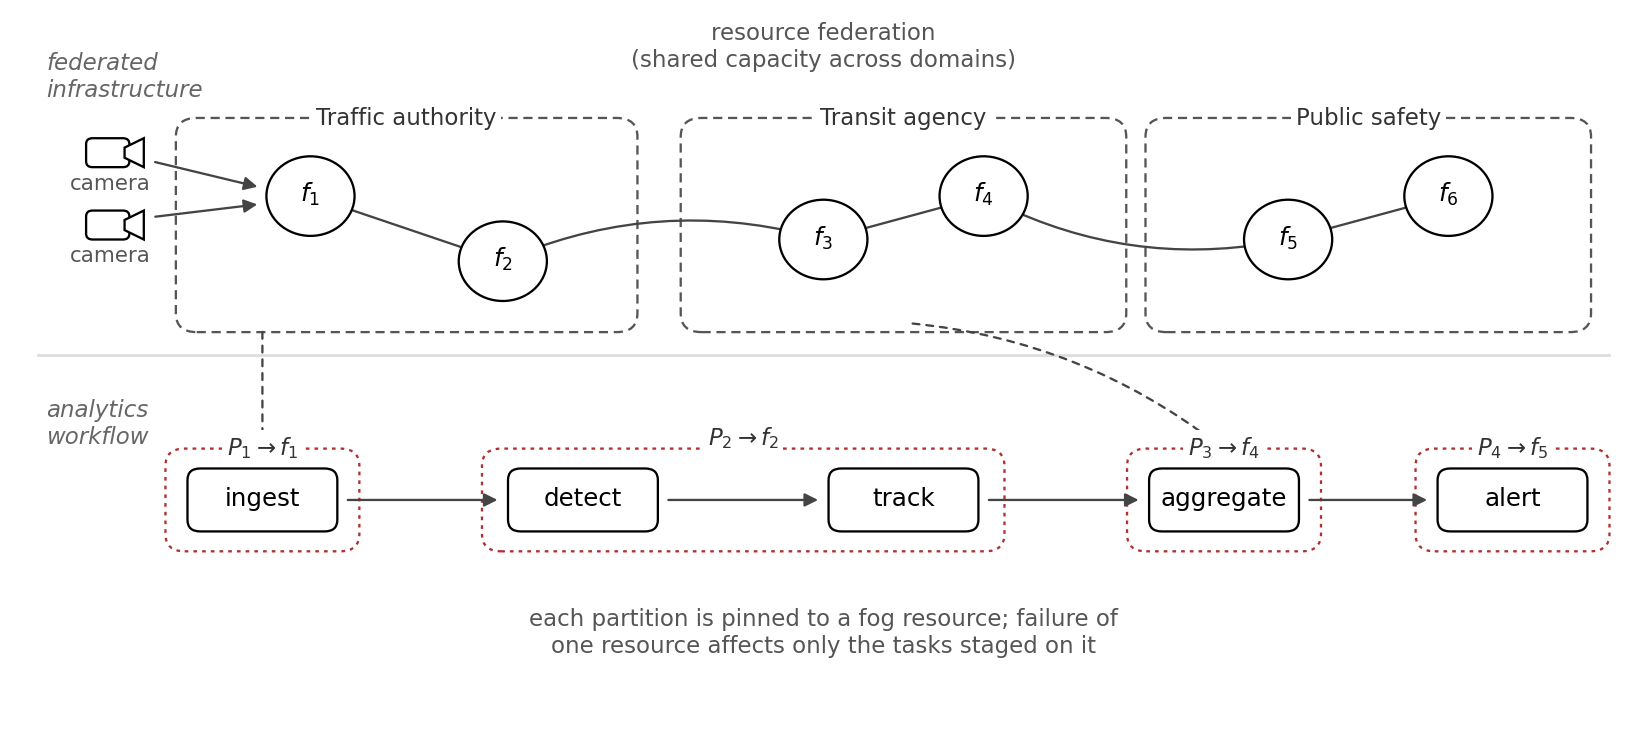
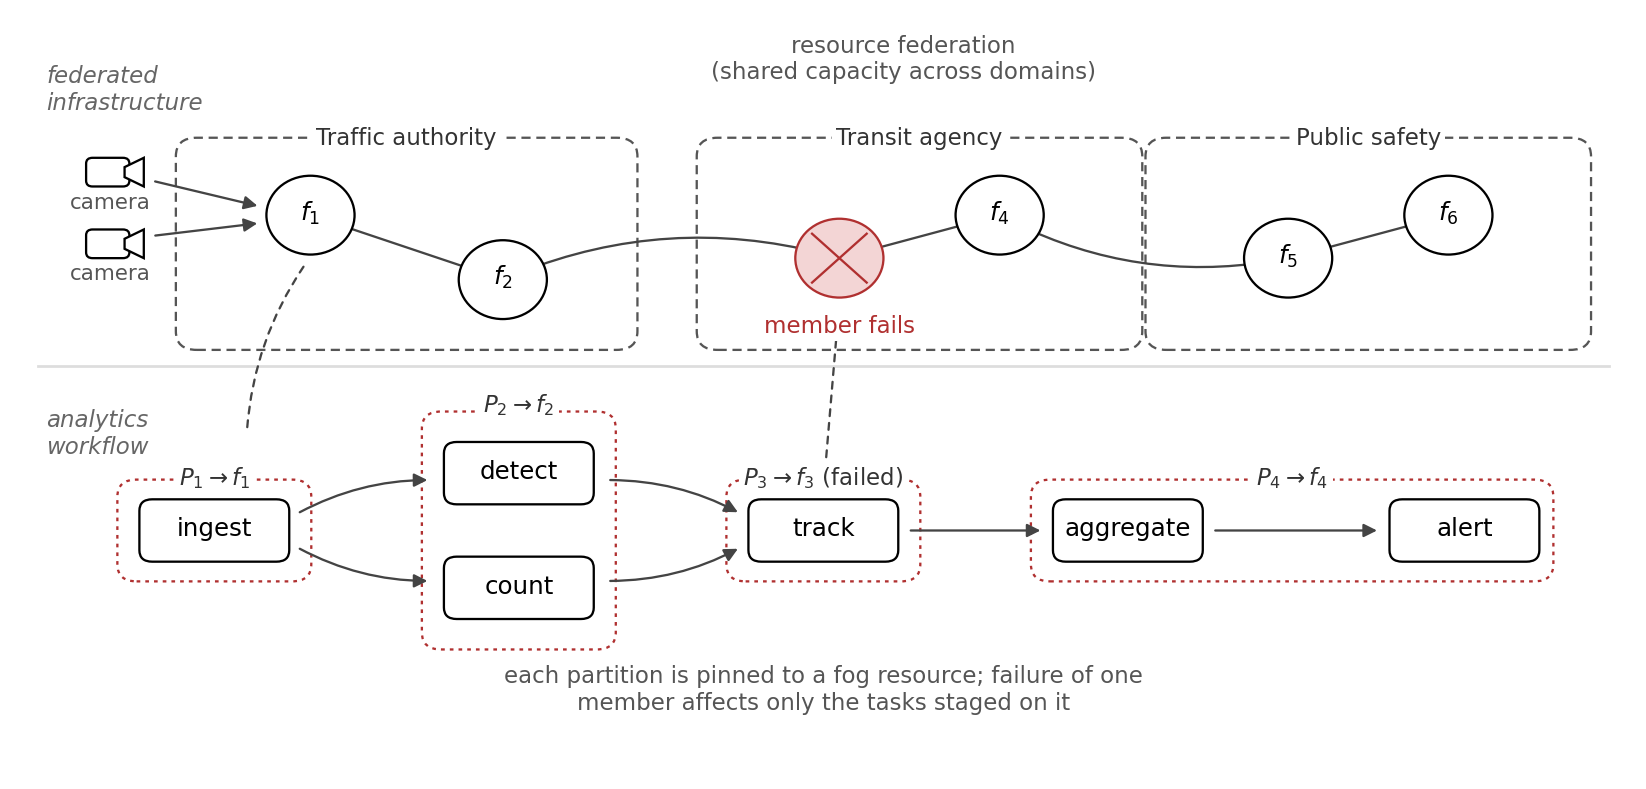
Rework Fig. 1 into a real motivating scenario
Branching analytics DAG (ingest -> {detect, count} -> track ->
aggregate -> alert) instead of a linear chain, a failed federation
member (f_3) marking the affected partition, and updated caption.

diff --git a/python/make_story_fig.py b/python/make_story_fig.py
@@ -11,16 +11,23 @@ LW = 0.75
 
 RED = "#b03030"
 BLUE = "#1f5fa8"
-GREEN = "#4d8a4d"
 GREY = "#444444"
 DOM = "#555555"
 
 
-def rnode(ax, x, y, label, r=5.5):
-    ax.add_patch(Circle((x, y), r, facecolor="white", edgecolor="black",
+def rnode(ax, x, y, label, r=5.5, dead=False):
+    ec = RED if dead else "black"
+    fc = "#f3d5d5" if dead else "white"
+    ax.add_patch(Circle((x, y), r, facecolor=fc, edgecolor=ec,
                         linewidth=LW, zorder=3))
-    ax.text(x, y + 0.3, label, ha="center", va="center",
-            fontsize=FS - 0.5, zorder=4)
+    if dead:
+        d = r * 0.62
+        for s in (1, -1):
+            ax.plot([x - d, x + d], [y - s * d, y + s * d], color=RED,
+                    lw=LW, zorder=4)
+    else:
+        ax.text(x, y + 0.3, label, ha="center", va="center",
+                fontsize=FS - 0.5, zorder=4)
 
 
 def domain(ax, x, y, w, h, label):
@@ -62,7 +69,6 @@ def partition(ax, x, y, w, h, label, edge=RED, lx=None, ly=None):
 
 
 def camera(ax, x, y):
-    """Minimal camera icon: body + lens."""
     ax.add_patch(FancyBboxPatch((x - 2.6, y - 1.6), 4.6, 3.2,
                  boxstyle="round,pad=0.4,rounding_size=0.8",
                  facecolor="white", edgecolor="black", linewidth=LW,
@@ -75,67 +81,74 @@ def camera(ax, x, y):
             fontsize=FS - 1.5, color="#555555", zorder=4)
 
 
-fig, ax = plt.subplots(figsize=(9.4, 4.1))
+fig, ax = plt.subplots(figsize=(9.4, 4.4))
 ax.set_xlim(0, 200)
-ax.set_ylim(0, 96)
+ax.set_ylim(0, 104)
 ax.axis("off")
 
-ax.plot([2, 198], [50, 50], color="#dddddd", lw=0.9)
-ax.text(3, 92, "federated\ninfrastructure", ha="left", va="top",
+ax.plot([2, 198], [56, 56], color="#dddddd", lw=0.9)
+ax.text(3, 98, "federated\ninfrastructure", ha="left", va="top",
         fontsize=FS - 1, color="#666666", style="italic")
-ax.text(3, 44, "analytics\nworkflow", ha="left", va="top",
+ax.text(3, 50, "analytics\nworkflow", ha="left", va="top",
         fontsize=FS - 1, color="#666666", style="italic")
 
 # ---------------- three federated domains ----------------
-# Traffic authority: two fog nodes
-domain(ax, 48, 68, 54, 26, "Traffic authority")
-rnode(ax, 36, 72, "$f_1$")
-rnode(ax, 60, 63, "$f_2$")
-elink(ax, (36, 72), (60, 63))
-camera(ax, 11, 78)
-camera(ax, 11, 68)
-elink(ax, (15.5, 77), (30.5, 73), arrow=True, sh=3)
-elink(ax, (15.5, 69), (30.5, 71), arrow=True, sh=3)
+domain(ax, 48, 73, 54, 26, "Traffic authority")
+rnode(ax, 36, 77, "$f_1$")
+rnode(ax, 60, 68, "$f_2$")
+elink(ax, (36, 77), (60, 68))
+camera(ax, 11, 83)
+camera(ax, 11, 73)
+elink(ax, (15.5, 82), (30.5, 78), arrow=True, sh=3)
+elink(ax, (15.5, 74), (30.5, 76), arrow=True, sh=3)
 
-# Transit agency
-domain(ax, 110, 68, 52, 26, "Transit agency")
-rnode(ax, 100, 66, "$f_3$")
-rnode(ax, 120, 72, "$f_4$")
-elink(ax, (100, 66), (120, 72))
+domain(ax, 112, 73, 52, 26, "Transit agency")
+rnode(ax, 102, 71, "$f_3$", dead=True)
+rnode(ax, 122, 77, "$f_4$")
+elink(ax, (102, 71), (122, 77))
 
-# Public safety
-domain(ax, 168, 68, 52, 26, "Public safety")
-rnode(ax, 158, 66, "$f_5$")
-rnode(ax, 178, 72, "$f_6$")
-elink(ax, (158, 66), (178, 72))
+domain(ax, 168, 73, 52, 26, "Public safety")
+rnode(ax, 158, 71, "$f_5$")
+rnode(ax, 178, 77, "$f_6$")
+elink(ax, (158, 71), (178, 77))
 
-# federation links across domains
-elink(ax, (60, 63), (100, 66), rad=-0.18)
-elink(ax, (120, 72), (158, 66), rad=0.18)
-ax.text(100, 90, "resource federation\n(shared capacity across domains)",
+elink(ax, (60, 68), (102, 71), rad=-0.18)
+elink(ax, (122, 77), (158, 71), rad=0.18)
+ax.text(110, 96, "resource federation\n(shared capacity across domains)",
         ha="center", fontsize=FS - 1, color="#555555")
+ax.text(102, 61.5, "member fails", color=RED, fontsize=FS - 1,
+        ha="center", va="center",
+        bbox=dict(facecolor="white", edgecolor="none", pad=1.0))
 
-# ---------------- analytics DAG ----------------
-xs = [30, 70, 110, 150, 186]
-labels = ["ingest", "detect", "track", "aggregate", "alert"]
-for x, lab in zip(xs, labels):
-    tnode(ax, x, 30, lab)
-for i in range(4):
-    elink(ax, (xs[i] + 8.75, 30), (xs[i + 1] - 8.75, 30), arrow=True,
-          sh=5)
+# ---------------- branching analytics DAG ----------------
+# ingest -> {detect, count} -> track -> aggregate -> alert
+tnode(ax, 24, 33, "ingest")
+tnode(ax, 62, 41, "detect")
+tnode(ax, 62, 25, "count")
+tnode(ax, 100, 33, "track")
+tnode(ax, 138, 33, "aggregate")
+tnode(ax, 180, 33, "alert")
 
-# partition boundaries mapped onto resources
-partition(ax, 30, 30, 21, 11, "$P_1 \\rightarrow f_1$")
-partition(ax, 90, 30, 62, 11, "$P_2 \\rightarrow f_2$", lx=90, ly=38.6)
-partition(ax, 150, 30, 21, 11, "$P_3 \\rightarrow f_4$")
-partition(ax, 186, 30, 21, 11, "$P_4 \\rightarrow f_5$")
+elink(ax, (33, 34.5), (52.5, 40), arrow=True, rad=-0.15, sh=5)
+elink(ax, (33, 31.5), (52.5, 26), arrow=True, rad=0.15, sh=5)
+elink(ax, (71.5, 40), (91, 34.5), arrow=True, rad=-0.15, sh=5)
+elink(ax, (71.5, 26), (91, 31.5), arrow=True, rad=0.15, sh=5)
+elink(ax, (109, 33), (129, 33), arrow=True, sh=5)
+elink(ax, (147, 33), (171, 33), arrow=True, sh=5)
 
-# mapping hints
-elink(ax, (30, 54.5), (30, 37), ls=(0, (3, 3)), sh=3)
-elink(ax, (110, 54.5), (150, 37), ls=(0, (3, 3)), rad=-0.15, sh=3)
+# partitions pinned to resources
+partition(ax, 24, 33, 21, 11, "$P_1 \\rightarrow f_1$")
+partition(ax, 62, 33, 21, 30, "$P_2 \\rightarrow f_2$", ly=50.5)
+partition(ax, 100, 33, 21, 11, "$P_3 \\rightarrow f_3$ (failed)", edge=RED)
+partition(ax, 158.5, 33, 62, 11, "$P_4 \\rightarrow f_4$", lx=158.5)
 
-ax.text(100, 9, "each partition is pinned to a fog resource; failure of\n"
-        "one resource affects only the tasks staged on it",
+
+# mapping hints (dashed) from infra to partitions
+elink(ax, (36, 71.2), (28, 45.5), ls=(0, (3, 3)), rad=0.15, sh=4)
+elink(ax, (102, 65), (100, 38.5), ls=(0, (3, 3)), sh=4)
+
+ax.text(100, 8, "each partition is pinned to a fog resource; failure of one\n"
+        "member affects only the tasks staged on it",
         ha="center", fontsize=FS - 1, color="#555555")
 
 fig.savefig("figures/fig0_story.png", dpi=220,

diff --git a/paper/main.tex b/paper/main.tex
@@ -144,9 +144,10 @@ Contributions:
 \includegraphics[width=0.92\textwidth]{figures/fig0_story.png}
 \caption{Motivating scenario. Top: fog resources federated across three
 administrative domains (traffic authority, transit agency, public safety);
-cameras stream into the federation. Bottom: an incident-analytics workflow
-partitioned and pinned to individual resources. A resource failure affects
-only the partitions staged on it.}
+cameras stream into the federation. Bottom: an incident-analytics DAG
+partitioned and pinned to individual resources. When member $f_3$ fails
+mid-execution, only the tasks staged on it (partition $P_3$) are
+affected---the recovery problem this paper addresses.}
 \label{fig:story}
 \end{figure*}
 
